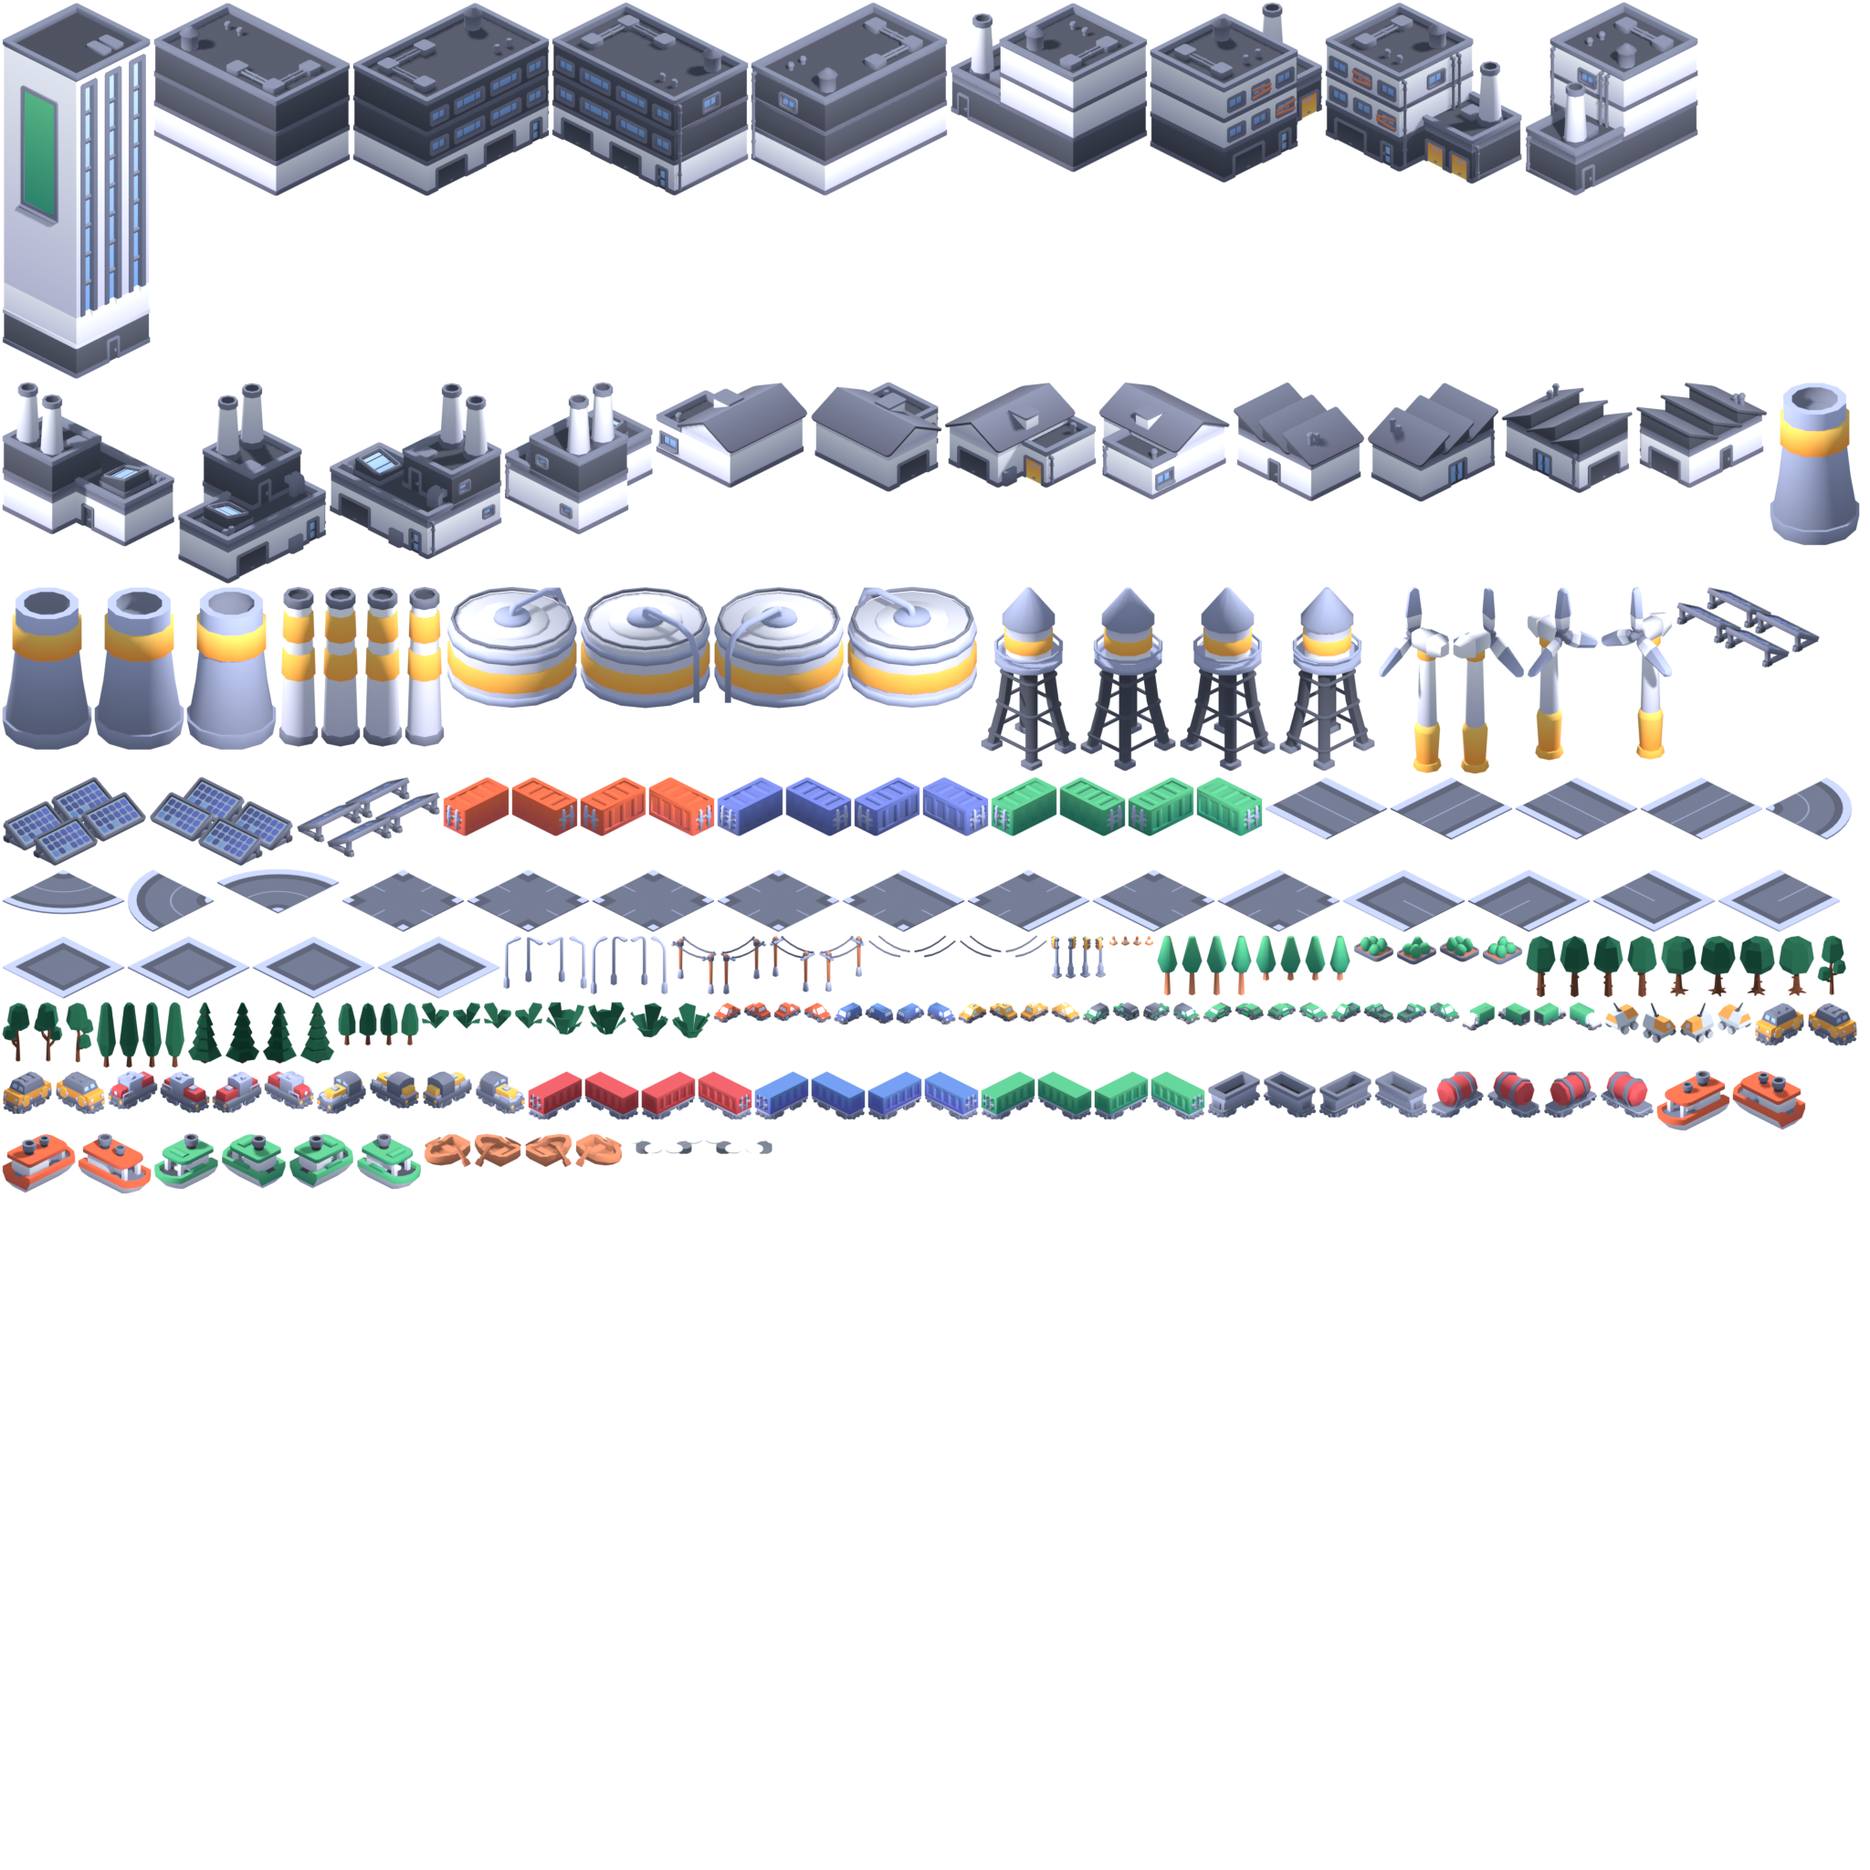
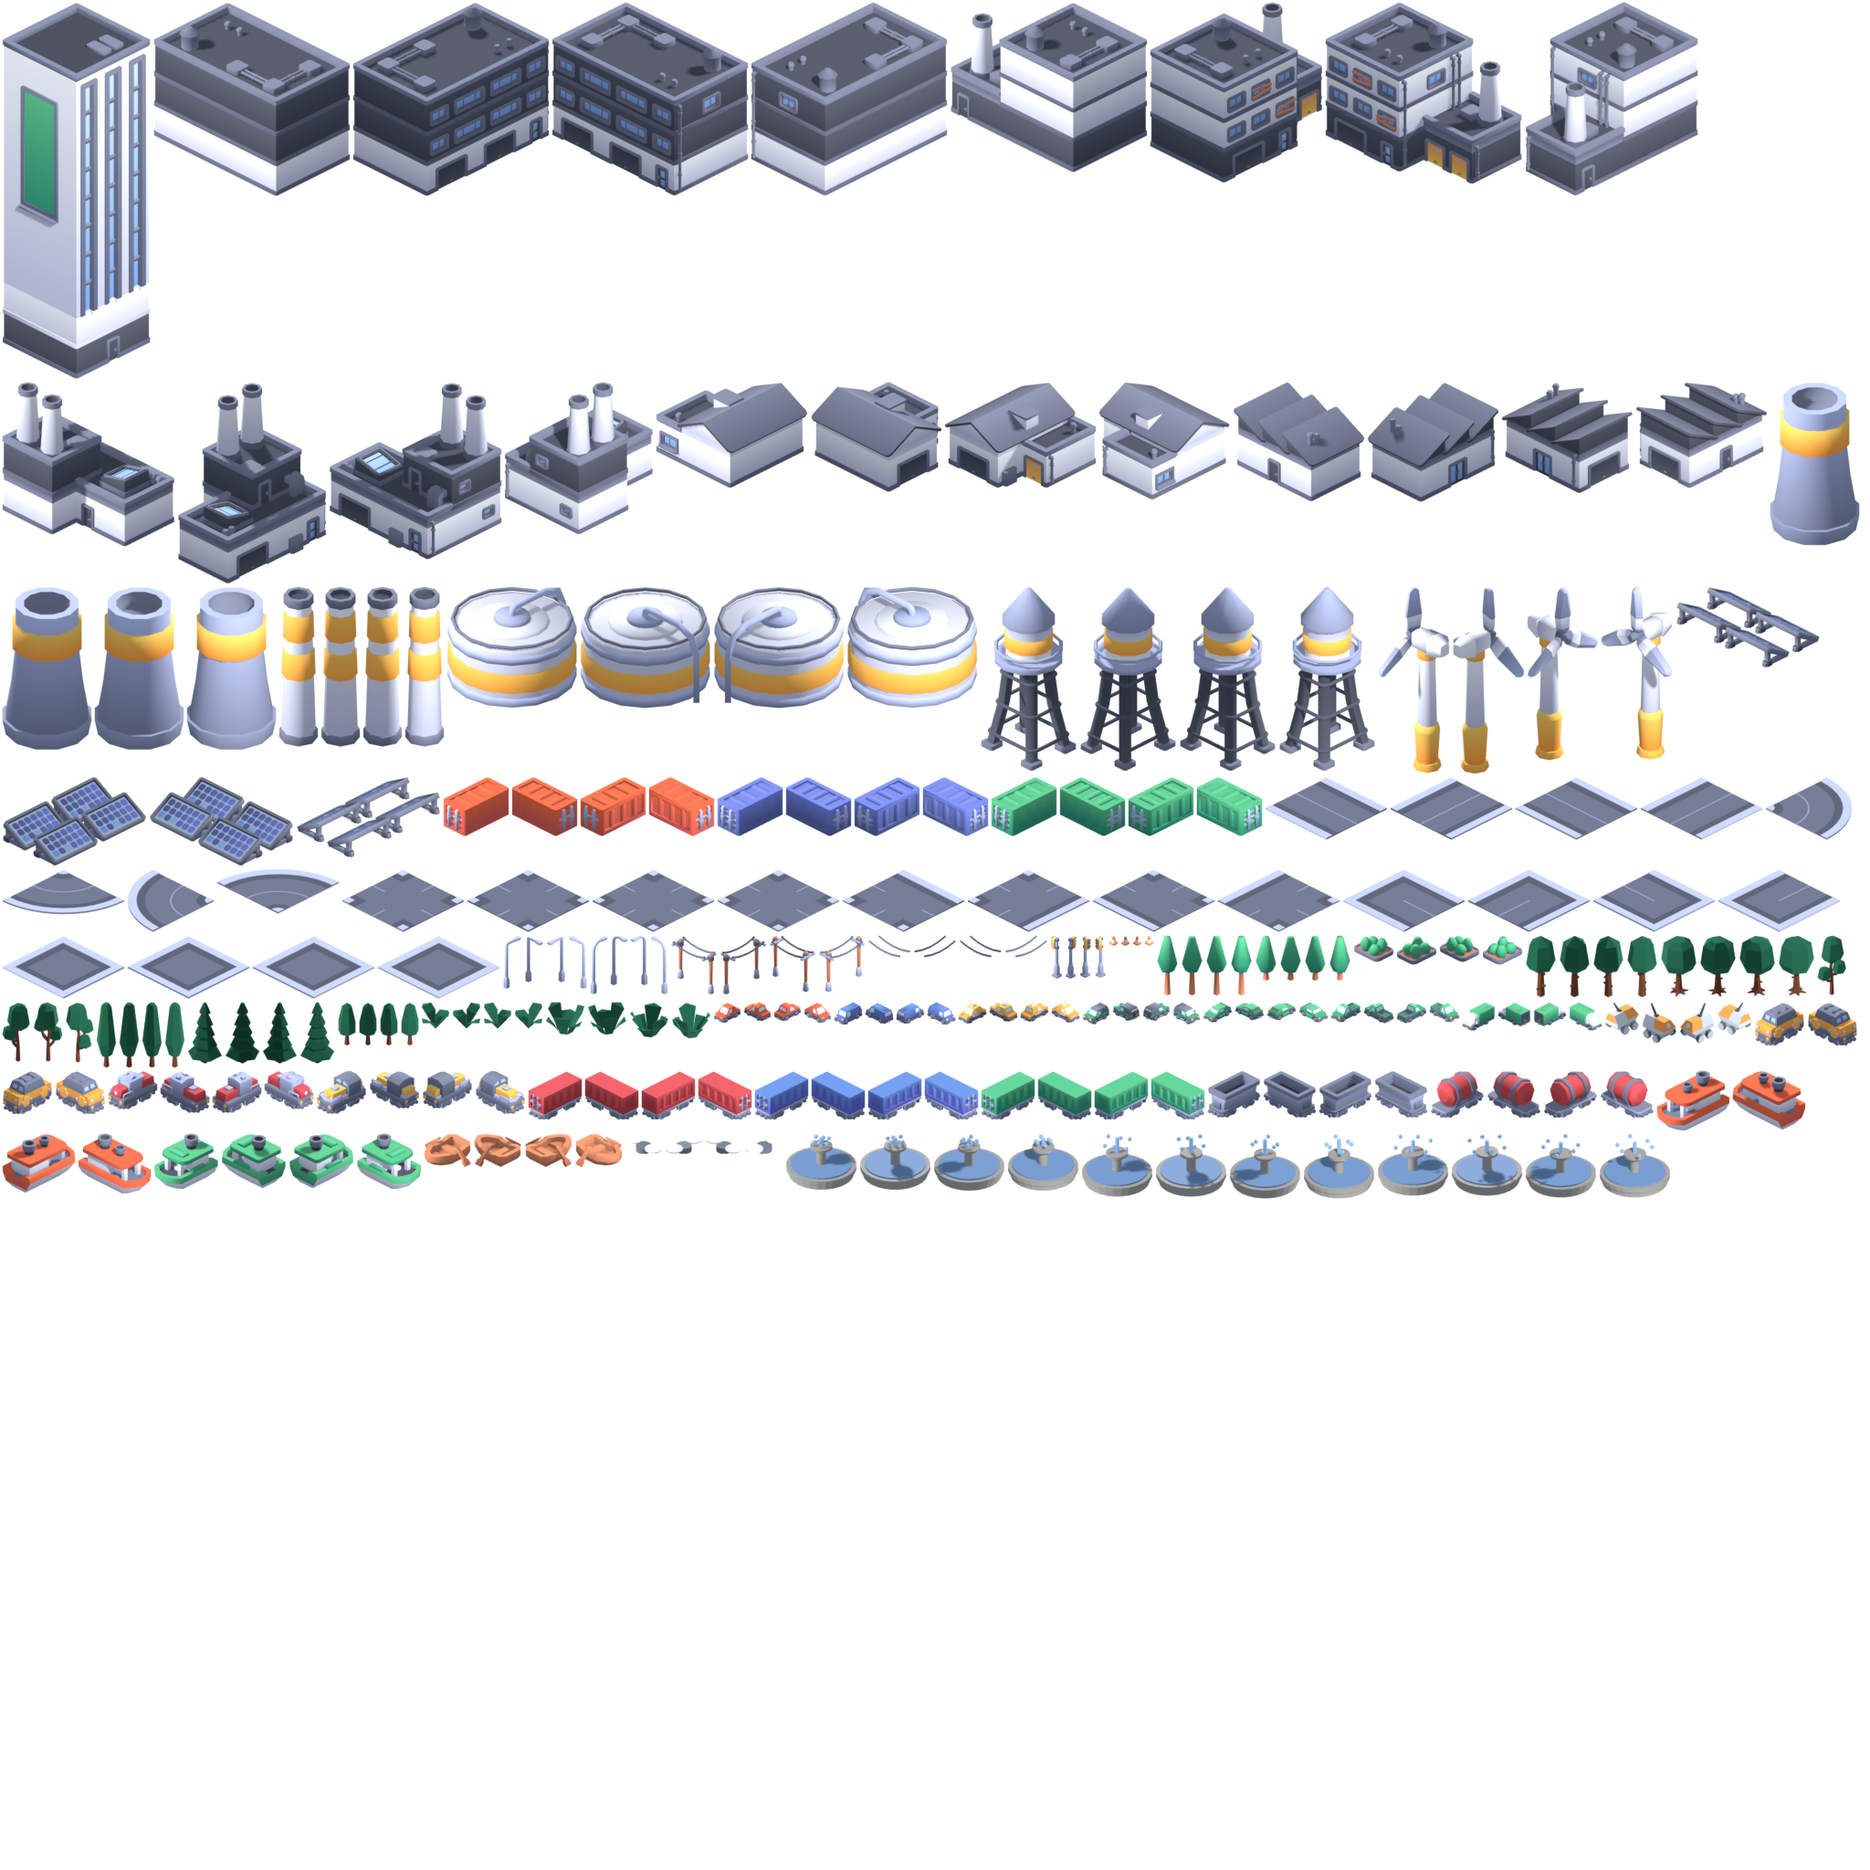
A fountain on the plaza, modelled like the drone
No kit on disk has a fountain, so the pipeline makes one, the way it
already makes the drone: a stone basin with a lip round its rim, a
column holding a dish, and a disc of water in #6a8cb8 — the plant's
own steel blue, because it is the same water the plant's tanks hold.

The spray is cut as three pieces rather than animated at runtime: the
jet and its droplets rise, spread and fall, and sprayFrame steps them
every SprayPeriod off the animation clock. That clock stands still
under reduced_motion, so the fountain does too, with no special case.

Its card still says it means nothing. It looks like what it is now.

Frame: docs/screenshots/r142-fountain.png — the plaza close-up phase
16 asks for, with the bushes and planters round the rim.

Changed region(s): [[0.4062, 0.5938, 0.9062, 0.6562]]

diff --git a/tools/render-sprites/render.py b/tools/render-sprites/render.py
@@ -63,7 +63,7 @@ PIECES = {
                   "train-carriage-container-red", "train-carriage-container-blue", "train-carriage-container-green",
                   "train-carriage-box", "train-carriage-tank"],
     "watercraft-kit": ["boat-tug-a", "boat-tug-b", "boat-row-small"],
-    "botropolis": ["drone"],
+    "botropolis": ["drone", "fountain-a", "fountain-b", "fountain-c"],
 }
 
 # Kits that are not modelled at one unit per cell are scaled on import:
@@ -138,6 +138,11 @@ def reset():
 ACCENT = (0.91, 0.63, 0.24, 1)
 SLATE = (0.16, 0.18, 0.22, 1)
 OFFWHITE = (0.85, 0.86, 0.88, 1)
+# The plaza's own stone, as an sRGB hex like the rest of the palette.
+STONE = "#9a9791"
+# The plant's steel blue, ui.Palette.Plant: the fountain's water is the
+# same water the plant's tanks hold.
+PLANT_BLUE = "#6a8cb8"
 
 
 def solid(name, colour, emission=0.0):
@@ -184,6 +189,55 @@ def drone(at):
     return root
 
 
+
+# How high the jet stands and how wide the droplets fly in each of the
+# three spray frames: up, over, and falling back. The city cycles them
+# slowly, and holds the first when motion is reduced.
+SPRAY = {"a": (0.10, 0.09), "b": (0.19, 0.15), "c": (0.14, 0.21)}
+
+
+def fountain(at, frame):
+    """The plaza's fountain: a stone basin with a lip, a column, a disc
+    of water in the plant's steel blue, and a spray cut in three frames.
+    No kit on disk has one, so it is modelled here as the drone is,
+    where the palette is decided."""
+    root = bpy.data.objects.new(f"botropolis/fountain-{frame}", None)
+    bpy.context.scene.collection.objects.link(root)
+    parts = []
+    stone = solid("fountain-stone", rgba(STONE))
+    water = solid("fountain-water", rgba(PLANT_BLUE))
+    spray = solid("fountain-spray", rgba(PLANT_BLUE), emission=0.8)
+
+    def cyl(radius, depth, z, mat):
+        bpy.ops.mesh.primitive_cylinder_add(radius=radius, depth=depth, location=(0, 0, z), vertices=28)
+        o = bpy.context.active_object
+        o.data.materials.append(mat)
+        parts.append(o)
+
+    cyl(0.38, 0.10, 0.05, stone)     # the basin
+    cyl(0.41, 0.05, 0.10, stone)     # the lip round its rim
+    cyl(0.36, 0.02, 0.135, water)    # the water standing in it
+    cyl(0.055, 0.26, 0.23, stone)    # the column
+    cyl(0.13, 0.03, 0.365, stone)    # the dish it holds up
+    rise, spread = SPRAY[frame]
+    cyl(0.022, rise, 0.38 + rise / 2, spray)
+    for i in range(6):
+        angle = i * math.pi / 3
+        bpy.ops.mesh.primitive_uv_sphere_add(
+            radius=0.024,
+            location=(spread * math.cos(angle), spread * math.sin(angle), 0.38 + rise * (0.8 if i % 2 else 0.55)),
+            segments=12,
+            ring_count=8,
+        )
+        drop = bpy.context.active_object
+        drop.data.materials.append(spray)
+        parts.append(drop)
+    for o in parts:
+        o.parent = root
+    root.location = Vector((at[0], at[1], 0))
+    bpy.context.view_layer.update()
+    return root
+
 def model_path(kits, kit, name):
     for folder in ("GLB format", "GLTF format"):
         path = os.path.join(kits, kit, "Models", folder, name + ".glb")
@@ -196,9 +250,11 @@ def piece(kits, kit, name, at, turn=0.0):
     """Import one kit piece at a tile position, turned in degrees about z;
     the botropolis kit is modelled here rather than imported."""
     if kit == "botropolis":
-        if name != "drone":
-            raise FileNotFoundError(f"botropolis/{name} is not a piece we model")
-        return drone(at)
+        if name == "drone":
+            return drone(at)
+        if name.startswith("fountain-") and name[len("fountain-"):] in SPRAY:
+            return fountain(at, name[len("fountain-"):])
+        raise FileNotFoundError(f"botropolis/{name} is not a piece we model")
     before = set(bpy.context.scene.objects)
     bpy.ops.import_scene.gltf(filepath=model_path(kits, kit, name))
     new = [o for o in bpy.context.scene.objects if o not in before]

diff --git a/pkg/render/iso.go b/pkg/render/iso.go
@@ -122,15 +122,40 @@ func (g *Game) isoPlaza(screen *ebiten.Image, cam *city.Camera, c *city.City) {
 	g.polyStroke(screen, cam, c.Plaza, 2, colorKitKerb)
 }
 
-// fountain is a round basin on the plaza's centre cell.
-func (g *Game) fountain(screen *ebiten.Image, cam *city.Camera, c *city.City) {
+// SprayPeriod is how long one of the fountain's spray frames holds. It
+// is slow on purpose: the fountain means nothing, so it should not
+// catch the eye the way a beacon does.
+const SprayPeriod = 0.9
+
+// sprayFrame is which frame of a cycle is showing at a moment. With
+// motion reduced the animation clock stands still, so the fountain
+// does too.
+func sprayFrame(seconds float64, frames int) int {
+	if frames <= 0 {
+		return 0
+	}
+	n := int(math.Floor(seconds/SprayPeriod)) % frames
+	if n < 0 {
+		n += frames
+	}
+	return n
+}
+
+// fountain is the plaza's centrepiece: a stone basin with a lip, a
+// column and a disc of water in the plant's steel blue, modelled in
+// the pipeline because no kit on disk has a fountain.
+func (g *Game) fountain(screen *ebiten.Image, cam *city.Camera, c *city.City, seconds float64) {
 	if c.Fountain.Area() == 0 {
 		return
 	}
 	centre := c.Fountain.Center()
-	g.circle(screen, cam, centre, city.Tile*1.1, colorKerb)
-	g.circle(screen, cam, centre, city.Tile, colorWater)
-	g.circle(screen, cam, centre, city.Tile*0.35, colorWaterLight)
+	if g.kits == nil {
+		g.circle(screen, cam, centre, city.Tile*1.1, colorKerb)
+		g.circle(screen, cam, centre, city.Tile, colorWater)
+		g.circle(screen, cam, centre, city.Tile*0.35, colorWaterLight)
+		return
+	}
+	g.kit(screen, cam, kitFountain[sprayFrame(seconds, len(kitFountain))], 0, centre, nil)
 }
 
 // lamp is a post at an avenue crossing; at night its head glows.
@@ -460,7 +485,7 @@ func (g *Game) drawIso(screen *ebiten.Image, c *city.City, cam *city.Camera, hov
 		g.isoDistrict(screen, cam, d, hover.District == d)
 	}
 	g.isoPlaza(screen, cam, c)
-	g.fountain(screen, cam, c)
+	g.fountain(screen, cam, c, seconds)
 	g.powerLines(screen, c, cam, hover, seconds)
 	g.camps(screen, c, cam)
 	var items []drawable

diff --git a/pkg/render/recipes_test.go b/pkg/render/recipes_test.go
@@ -56,3 +56,37 @@ func TestTreePiece(t *testing.T) {
 		})
 	})
 }
+
+func TestSprayFrame(t *testing.T) {
+	t.Run("when the clock has just started", func(t *testing.T) {
+		t.Run("it should show the first frame", func(t *testing.T) {
+			assert.Equal(t, 0, sprayFrame(0, 3))
+		})
+	})
+
+	t.Run("when a period has passed", func(t *testing.T) {
+		t.Run("it should have stepped on one", func(t *testing.T) {
+			assert.Equal(t, 1, sprayFrame(SprayPeriod*1.5, 3))
+		})
+	})
+
+	t.Run("when the cycle has come round", func(t *testing.T) {
+		t.Run("it should be back at the first", func(t *testing.T) {
+			assert.Equal(t, 0, sprayFrame(SprayPeriod*3, 3))
+		})
+	})
+
+	t.Run("when the clock stands still, as it does with motion reduced", func(t *testing.T) {
+		held := sprayFrame(pulsePeriod/4, 3)
+
+		t.Run("it should hold one frame however long you look", func(t *testing.T) {
+			assert.Equal(t, held, sprayFrame(pulsePeriod/4, 3))
+		})
+	})
+
+	t.Run("when there are no frames to show", func(t *testing.T) {
+		t.Run("it should not divide by zero", func(t *testing.T) {
+			assert.Equal(t, 0, sprayFrame(12, 0))
+		})
+	})
+}

diff --git a/pkg/render/recipes.go b/pkg/render/recipes.go
@@ -30,7 +30,10 @@ var (
 	kitLamp    = "city-kit-roads/light-square"
 	kitRover   = "space-kit/rover"
 	kitDrone   = "botropolis/drone"
-	kitCars    = []string{"car-kit/sedan", "car-kit/van", "car-kit/taxi", "car-kit/suv", "car-kit/hatchback-sports", "car-kit/delivery"}
+	// The plaza's fountain, modelled in the pipeline like the drone:
+	// three frames of spray, cycled slowly.
+	kitFountain = []string{"botropolis/fountain-a", "botropolis/fountain-b", "botropolis/fountain-c"}
+	kitCars     = []string{"car-kit/sedan", "car-kit/van", "car-kit/taxi", "car-kit/suv", "car-kit/hatchback-sports", "car-kit/delivery"}
 	// The park palette: the Suburban kit's two, and six of the Nature
 	// Kit's cut to their height and repainted in their greens by the
 	// pipeline. plan.ParkSpecies is how many the plan may ask for.

diff --git a/ROADMAP.md b/ROADMAP.md
@@ -329,8 +329,12 @@ Rotation, zoom, sidebar, breakdown, timeline, settings, F1 help, hide-chrome all
     `plan.TreeKind` says what a planting is — park tree, street tree, bush, planter — and `plan.Tree.Variant` which species, both seeded from the cell or its block.
     Avenues are lined at a fixed pitch on the verge, one species a street; a park block is a grove of two to four species; the belt is the same wood mixed; the plaza's rim alternates bushes and planters.
     Frame `docs/screenshots/r141-planting.png`.
-  - *The fountain is a blue disc.* No kit on disk has a fountain. Model one in the pipeline as the drone was: a basin, a column, a lip, a water disc in the plant's steel blue, and three spray frames cycled slowly (still under `reduced_motion`).
+  - ~~*The fountain is a blue disc.*~~ Done 2026-09-21 (r142). No kit on disk has a fountain. Model one in the pipeline as the drone was: a basin, a column, a lip, a water disc in the plant's steel blue, and three spray frames cycled slowly (still under `reduced_motion`).
     Its card already says it means nothing; it should at least look like what it is.
+    `fountain(at, frame)` in `render.py` builds it from cylinders and spheres the way `drone(at)` does — basin, lip, column, dish, and a water disc in `#6a8cb8`, the plant's own blue —
+    and cuts three pieces, `fountain-a`, `-b`, `-c`, whose jet and droplets rise, spread and fall.
+    `sprayFrame` steps them every `SprayPeriod` (0.9 s) off the animation clock, which stands still under `reduced_motion`, so the fountain does too.
+    Frame `docs/screenshots/r142-fountain.png` (the plaza close-up phase 16 asks for).
   - *Buildings get signs, like corporate offices.* (Aria, 2026-09-18.) A session's title goes on its building the way a tower's name goes on the tank: a short title as a fascia sign over the door on the front face;
     a long one on a rooftop billboard (two lines, ellipsised, the billboard a kit-palette panel on two posts); a tall building may run it up the side.
     Same rules as the towers — nothing below seven pixels, the plate only on hover — so the "titles visible from 1.5×" plates retire.

diff --git a/DESIGN.md b/DESIGN.md
@@ -261,7 +261,8 @@ Its `scene` mode renders one composed district for judging the look (`make kit-d
 its `atlas` mode cuts every piece the map uses at four headings and two zoom levels, alpha-cropped with the pixel where the piece's ground origin lands,
 shelf-packed onto 2048 px pages under a budget of eight per zoom, with a JSON manifest (`make sprites`; `tools/shrink-pngs` re-encodes the pages).
 One sun with soft cast shadows; an orthographic camera 30° above the ground and turned 45° plus the heading, so a one-unit tile projects as the map's 2:1 diamond, 132 px wide and 66 tall at zoom 1 (atan(1/2) is the diamond's edge angle on screen, not the camera's tilt; the first atlases were cut at it and every tile came out a tenth too short).
-Kits not modelled at one unit per cell are scaled on import (the Car Kit to 0.12); the drone is modelled in the script from primitives in the kits' palette.
+Kits not modelled at one unit per cell are scaled on import (the Car Kit to 0.12); the drone and the plaza's fountain are modelled in the script from primitives in the kits' palette
+(no kit on disk has a fountain, and the fountain's three spray frames are cut as three pieces the city cycles).
 The Nature Kit's trees are brought onto the city's terms there too: each is scaled to a height in the Suburban trees' range and its named materials repainted in their greens,
 because the one-palette rule is about colour and the pipeline is where colour is decided.
 A piece the kit models away from its own origin is slid back onto it (`OFF_ORIGIN`), because the atlas anchors a sprite where the piece's origin projects.

diff --git a/pkg/assets/kits/README.md b/pkg/assets/kits/README.md
@@ -16,7 +16,7 @@ Only the rendered pages, the manifests and each kit's `License.txt` are committe
 | Space Kit | https://kenney.nl/assets/space-kit | the rover at the door of a working session |
 | Train Kit | https://kenney.nl/assets/train-kit | the ledger: a diesel and container wagons per model on the freight loop (scaled to a quarter) |
 | Watercraft Kit | https://kenney.nl/assets/watercraft-kit | the tugs that bring a new session up the river and take a demolished one away (scaled to a quarter) |
-| (modelled in the script) | — | the drone that stands for a subagent in flight |
+| (modelled in the script) | — | the drone that stands for a subagent in flight; the plaza's fountain, in three spray frames |
 
 Every piece is cut at four headings (0, 90, 180, 270 degrees) under one sun,
 seen by an orthographic camera 30 degrees above the ground and turned 45 degrees,
